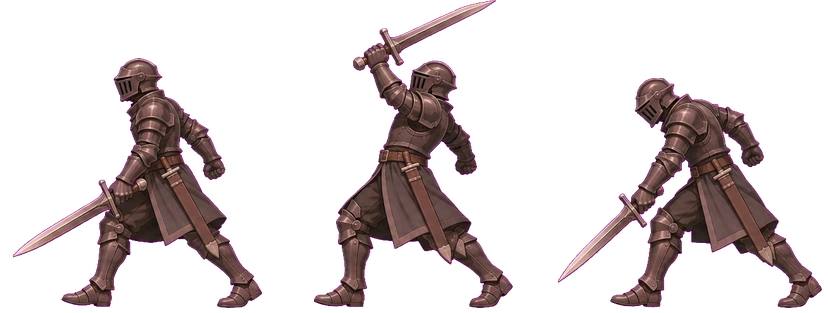
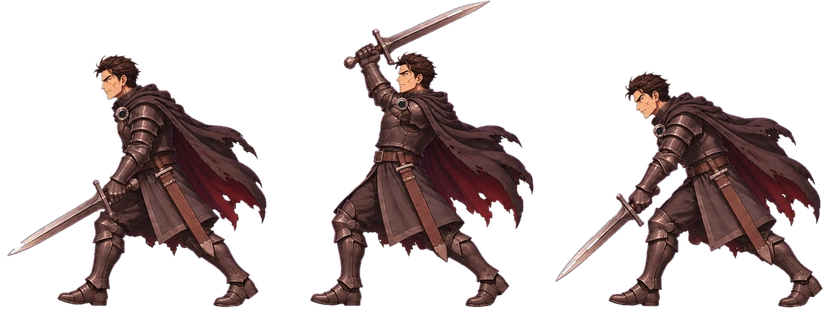
프롤로그: 간부 투구 제거·얼굴 공개(GPT 스프라이트 재제작), 아들 달리기 연출 순서·모션, 탈출 몽타주 가방, 장애물 간격 확대
Claude-Session: https://claude.ai/code/session_01SwHSdbEEaZJxcHmirHV4co

Changed region(s): [[0.3623, 0.0, 0.6643, 1.0], [0.6643, 0.23, 0.9964, 1.0], [0.0, 0.1725, 0.3321, 1.0]]

diff --git a/games/autelia/js/prologue/scenes.js b/games/autelia/js/prologue/scenes.js
@@ -26,8 +26,10 @@ window.AU = window.AU || {};
         const wsh = moving && (e.id === "off" ? (!e.pose || e.pose === "ready") && "pc_raider_officer_walk" : "pc_" + e.wk + "_walk"), WF = ["walk1", "pass1", "walk2", "pass2"];   // 4프레임 걷기 시트가 있으면 사용(간부는 검 동작 자세가 아닐 때만)
         if (wsh && A.has(wsh)) A.spr(ctx, wsh, WF[Math.floor(e.step / 18) % 4], e.x, e.y, e.face, e.s / 0.5);
         else if (e.pose && A.has("pc_raider_officer")) A.spr(ctx, "pc_raider_officer", e.pose, e.x, e.y, e.face, e.s / 0.5);   // 간부의 검 동작(준비·치켜듦·내리침)
-        else if (!A.spr(ctx, "pc_" + (A.has("pc_" + e.wk) ? e.wk : "raider_actions"), fr, e.x, e.y, e.face, e.s / 0.5)) A.raider(ctx, e.x, e.y, e.s, P.time, e.face); ctx.restore(); } });
+        else if (!A.spr(ctx, "pc_" + (A.has("pc_" + e.wk) ? e.wk : "raider_actions"), fr, e.x, e.y, e.face, e.s / 0.5)) A.raider(ctx, e.x, e.y, e.s, P.time, e.face); ctx.restore();
+        } });
   }
+  /* 간부 망토: 초상화(찢어진 짙은 망토, 붉은 안감)와 같은 모습을 몸 뒤에 그려 일반 병사와 구분. 걷거나 움직이면 펄럭임 */
   const SHEETS = "abcdefghijklm".split("").filter(() => true); // 주민 동작 시트(a~c 1차, d~m NPC 다양화). 없는 시트는 runner/crowd 에서 건너뜀
   const pickSheet = () => { const ok = SHEETS.filter((c) => A.has("pc_villager_" + c + "_actions")); return ok.length ? ok[(Math.random() * ok.length) | 0] : "a"; };
   // 도망치는 주민 실루엣(배경 연출용, 충돌 없음)
@@ -306,7 +308,7 @@ window.AU = window.AU || {};
       P.tint = { color: "#c9a79f", a: 0.5 }; P.vig = 0.4; P.setPlatforms(LAY.road.obst);
       flames(P, [{ x: 560, y: G, s: 1.1 }, { x: 760, y: G, s: 0.8 }, { x: 1240, y: G, s: 1.2 }, { x: 1900, y: G, s: 1.0 }, { x: 2130, y: G, s: 0.9 }, { x: 180, y: 300, s: 1.5 }, { x: 300, y: 285, s: 1.8 }, { x: 400, y: 310, s: 1.3 }]);
       fireEmitters(P, LAY.road.w, 150, 560, 1); for (const [i, r] of LAY.road.raiders.entries()) raider(P, "r" + (i + 1), r[0], r[1], 0.5 - i * 0.05, -1, r[2], r[3]); runnerSpawner(P, 2.2);
-      P.trigger({ id: "jumphint", test: (p) => p.x <= 1000, fn: () => P.hint("장애물은 점프(" + P.keys().jump + ")로 넘을 수 있습니다.", 4, true) });
+      P.trigger({ id: "jumphint", test: (p) => p.x <= 1700, fn: () => P.hint("장애물은 점프(" + P.keys().jump + ")로 넘을 수 있습니다.", 4, true) });
       P.trigger({ id: "s3end", goal: LAY.road.doorX, test: (p) => p.x <= LAY.road.doorX + 60, fn: () => houseDoor() });
     }
   }
@@ -459,11 +461,13 @@ window.AU = window.AU || {};
     await P.cutscene(async () => {
       P.obj(""); P.sfx("boom"); await P.fade(0, 1.2); await P.wait(0.8);
       await P.say([T.officer[0]]);
-      P.sfx("collapse"); P.shake(12, 0.9); await P.flash("#ffd9a0", 0.35); await P.tween(P.cut, { a: 0 }, 0.7); P.cut = null; await P.wait(0.5);
+      P.sfx("collapse"); P.shake(12, 0.9); await P.flash("#ffd9a0", 0.35); await P.tween(P.cut, { a: 0 }, 0.7); P.cut = null; await P.wait(0.4);
+      AU.World.player.dir = 1; P.pose("stagger"); await P.wait(0.55); P.pose(null);   // 아버지가 쓰러진 모습에 충격으로 굳음
       await P.say(T.officer.slice(1, 2));   // 주인공의 외침
       const p = AU.World.player, off = ent("off"), r1 = ent("rg1"), r2 = ent("rg2"), fa = ent("father");
-      await P.say(T.officer.slice(2));      // 간부의 선언
-      await P.walkTo(660, 2.0); P.pose("kneel"); await P.wait(0.5);   // 주인공은 아버지 곁으로 달려가 주저앉음
+      // 아버지가 쓰러지는 것을 본 주인공이 충격으로 굳었다가 → 외치고 → 곧바로 달려가 곁에 주저앉음 → 그제야 간부가 반응
+      await P.walkTo(660, 2.2); P.pose("kneel"); await P.wait(0.5);
+      await P.say(T.officer.slice(2));      // 간부의 선언(아버지 곁에 무릎 꿇은 주인공을 향해)
       walkTo(r1, fx + 165, 70); walkTo(r2, fx + 260, 70);            // 부하들이 무기를 든 채 한 걸음씩 다가옴
       await walkTo(off, fx + 115, 80); off.pose = "raise"; P.sfx("hammer"); await P.wait(0.5); await P.say(T.officer2);   // 간부가 검을 치켜듦
       // 아버지가 마지막 힘으로 일어나 주인공 앞을 막아섬
@@ -492,8 +496,9 @@ window.AU = window.AU || {};
       if (s.kind === "fog") { for (let i = 0; i < 3; i++) { const fx = ((t * 30 + i * 500) % 1800) - 400, g = ctx.createLinearGradient(fx, 0, fx + 700, 0); g.addColorStop(0, "rgba(235,240,245,0)"); g.addColorStop(0.5, "rgba(235,240,245,.55)"); g.addColorStop(1, "rgba(235,240,245,0)"); ctx.fillStyle = g; ctx.fillRect(fx, 200 + i * 90, 700, 220); } }
       else if (s.kind === "rain") { ctx.strokeStyle = "rgba(210,225,240,.5)"; ctx.lineWidth = 1.5; ctx.beginPath(); for (let i = 0; i < 140; i++) { const rx = (i * 97 + t * 420) % (W + 100) - 50, ry = (i * 53 + t * 900) % H; ctx.moveTo(rx, ry); ctx.lineTo(rx - 10, ry + 26); } ctx.stroke(); }
       else { const g = ctx.createRadialGradient(W * 0.5, 330, 10, W * 0.5, 330, 520); g.addColorStop(0, "rgba(255,230,160,.6)"); g.addColorStop(1, "rgba(255,200,120,0)"); ctx.globalCompositeOperation = "lighter"; ctx.fillStyle = g; ctx.fillRect(0, 0, W, H); ctx.globalCompositeOperation = "source-over"; }
-      const px = 260 + local * 120, bob = Math.abs(Math.sin(local * 7)) * 3; { const by = G + 6 - bob - 74 + Math.sin(local * 14) * 1.5, br = Math.sin(local * 7) * 0.03; if (!A.bagBack(ctx, px - 20, by, 58, 1, br)) A.bag(ctx, px - 22, by + 4, 0.62, 0.1 + br); }   // 등에 멘 목수 도구 가방
-      if (!A.spr(ctx, "pc_player_" + (AU.PRO_GENDER || "m") + "_locomotion", "walk" + (1 + Math.floor(local * 8) % 4), px, G + 6 - bob, 1)) AU.World.sprite(ctx, "player_male", px, G + 6 - bob, 150, 1, Math.floor(local * 8) % 4); ctx.restore(); }
+      const px = 260 + local * 120, bob = Math.abs(Math.sin(local * 7)) * 3; { const gk = "pc_player_" + (AU.PRO_GENDER || "m"), fr = "walk" + (1 + Math.floor(local * 8) % 4), y = G + 6 - bob;   // 가방을 멘 정식 걷기 그림(없으면 일반 걷기 + 등 뒤 가방)
+        if (!A.spr(ctx, gk + "_bag", fr, px, y, 1)) { const by = y - 74 + Math.sin(local * 14) * 1.5, br = Math.sin(local * 7) * 0.03; if (!A.spr(ctx, gk + "_locomotion", fr, px, y, 1)) AU.World.sprite(ctx, "player_male", px, y, 150, 1, Math.floor(local * 8) % 4); if (!A.bagBack(ctx, px - 20, by, 58, 1, br)) A.bag(ctx, px - 22, by + 4, 0.62, 0.1 + br); } }
+      ctx.restore(); }
   }
   SC.SCENE_05_ESCAPE = { name: "무너진 신전을 뒤로하고", async enter(P) {
     const g = P.gen, k = P.keys();

diff --git a/games/autelia/js/prologue/data.js b/games/autelia/js/prologue/data.js
@@ -45,8 +45,8 @@ window.AU = window.AU || {};
   // 장면별 배치 좌표(그림이 바뀌면 여기만 고칩니다)
   const L = AU.PRO_LAY = {
     temple: { w: BW("temple", 1839), start: 250, pile: 470, father: 700, joint: 905, tx: 1215, tBase: 548, tW: 720, limit: 1720, exit: 1790, hammerAt: 1010 },
-    road:   { w: BW("road", 2149), start: 90, doorX: 268, end: 2050, m: { start: 300, farmer: 820, child: 560, baker: 1080, elder: 1320, priest: 1550, stele: 1700, limit: 1780 }, b: { elder: 430, musician: 640, baker: 1000, scribe: 1520, poles: [800, 1300, 1750], limit: 2050 }, obst: [{ x: 800, y: 527, w: 190, h: 63 }, { x: 1270, y: 527, w: 190, h: 63 }], raiders: [[1150, 505, 1000, 1350], [1500, 500, 1350, 1750]] },
-    plaza:  { w: BW("plaza", 2160), start: 120, elder: 380, child: 640, vendor: 1700, limit: 1860, center: 1080, exit: 70, tx: 1080, tBase: 520, tW: 520, obst: [{ x: 1270, y: 527, w: 190, h: 63 }, { x: 1640, y: 527, w: 170, h: 63 }] },   // 와이드 광장(2160px): 신전·이벤트 지점이 맵 정중앙(1080)
+    road:   { w: BW("road", 2149), start: 90, doorX: 268, end: 2050, m: { start: 300, farmer: 820, child: 560, baker: 1080, elder: 1320, priest: 1550, stele: 1700, limit: 1780 }, b: { elder: 430, musician: 640, baker: 1000, scribe: 1520, poles: [800, 1300, 1750], limit: 2050 }, obst: [{ x: 700, y: 527, w: 190, h: 63 }, { x: 1270, y: 527, w: 190, h: 63 }], raiders: [[1150, 505, 1000, 1350], [1500, 500, 1350, 1750]] },
+    plaza:  { w: BW("plaza", 2160), start: 120, elder: 380, child: 640, vendor: 1700, limit: 1860, center: 1080, exit: 70, tx: 1080, tBase: 520, tW: 520, obst: [{ x: 1150, y: 527, w: 190, h: 63 }, { x: 1640, y: 527, w: 170, h: 63 }] },   // 와이드 광장(2160px): 신전·이벤트 지점이 맵 정중앙(1080)
     house:  { w: BW("house", 1279), start: 170, father: 860, bag: 420, find: 470, exit: 100 },
     escape: { w: BW("escape", 3083), start: 90, recall: 1500, look: 2780, end: 3020 },
     hill:   { w: BW("port", 1849), start: 300 }
@@ -56,7 +56,7 @@ window.AU = window.AU || {};
   AU.MAPS.pro_plaza  = Object.assign({}, base, { name: "아르케아 축제 광장", bg: "pb_plaza", bgAtk: "pb_plaza_atk", width: L.plaza.w, platforms: ground(L.plaza.w), start: L.plaza.start });  // BG-03 / BG-V02
   AU.MAPS.pro_house  = Object.assign({}, base, { name: "주인공의 집", bg: "pb_house_atk", width: L.house.w, platforms: ground(L.house.w), start: L.house.start });                // BG-04(습격 상태)
   AU.MAPS.pro_escape = Object.assign({}, base, { name: "아르케아 외곽 탈출로", bg: "pb_escape", width: L.escape.w, start: L.escape.start,                                          // BG-05
-    platforms: [{ x: 0, y: G, w: L.escape.w }, { x: 630, y: 524, w: 170, h: 66 }, { x: 960, y: 538, w: 200, h: 52 }, { x: 1700, y: 538, w: 200, h: 52 }, { x: 2300, y: 524, w: 170, h: 66 }] });   // 장애물(코드로 그린 쓰러진 나무·바위)은 흙길 위에 놓음
+    platforms: [{ x: 0, y: G, w: L.escape.w }, { x: 630, y: 524, w: 170, h: 66 }, { x: 1130, y: 538, w: 200, h: 52 }, { x: 1700, y: 538, w: 200, h: 52 }, { x: 2300, y: 524, w: 170, h: 66 }] });   // 장애물(코드로 그린 쓰러진 나무·바위)은 흙길 위에 놓음
   AU.MAPS.pro_hill   = Object.assign({}, base, { name: "포르투 노바 외곽 언덕", bg: "pb_port", width: L.hill.w, platforms: ground(L.hill.w), start: L.hill.start });                    // BG-06
   // 맵 변형(BG-V01~V03)은 같은 배경·같은 지형 위에 코드로 연기·불길·잔해를 얹어 표현합니다.
   for (const id of Object.keys(AU.MAPS)) if (AU.MAPS[id].prologue) AU.MAPS[id].basePlatforms = AU.MAPS[id].platforms.slice();

diff --git a/games/autelia/js/prologue/engine.js b/games/autelia/js/prologue/engine.js
@@ -349,6 +349,7 @@ window.AU = window.AU || {};
       if (!this.on) return; this.time += dt; const w = AU.World, p = w.player;
       for (let i = this.timers.length - 1; i >= 0; i--) { const t = this.timers[i]; t.t -= dt; if (t.t <= 0) { this.timers.splice(i, 1); t.res(); } }
       for (const tw of this.tweens.slice()) { tw.t += dt; const k = Math.min(1, tw.t / tw.dur), e = tw.ease(k); for (const key of Object.keys(tw.to)) tw.obj[key] = tw.from[key] + (tw.to[key] - tw.from[key]) * e; if (k >= 1) { const i = this.tweens.indexOf(tw); if (i >= 0) this.tweens.splice(i, 1); tw.res(); } }
+      if (this.isRun() && p.onGround) { this.runT = (this.runT || 0) + dt; if (this.runT > 0.12) { this.runT = 0; this.burst("dust", p.x - p.dir * 16, p.y - 3, 1); } }   // 달리는 발밑 먼지
       if (this.walk) { this.walk.t += dt; const dx = this.walk.x - p.x; if (Math.abs(dx) <= 6 || this.walk.t > 12) { if (this.walk.t > 12) p.x = this.walk.x; p.vx = 0; w.virt = null; const r = this.walk.res; this.walk = null; r(); } else if (w.virt) w.virt.dir = sign(dx); }
       if (this.shk.t > 0) this.shk.t -= dt;
       if (p.pose) p.pose.t += dt;
@@ -412,12 +413,14 @@ window.AU = window.AU || {};
       if (nm === "hammer") fr = (this.v.swing || 0) > 0.5 ? "hammer2" : "hammer1";
       else if (nm === "kneel") fr = "kneel"; else if (nm === "shrug") fr = "shrug"; else if (nm === "lookback") fr = "lookback";
       else if (!p.onGround) { sheet = "locomotion"; fr = p.vy < 0 ? "jump_up" : "jump_down"; }
-      else if (moving) { sheet = "locomotion"; fr = "walk" + (1 + (Math.floor(AU.World.time * 9) % 4)); }
+      else if (moving) { sheet = "locomotion"; fr = "walk" + (1 + (Math.floor(AU.World.time * (this.isRun() ? 15 : 9)) % 4)); }   // 달릴 때는 발 구르는 속도를 빠르게(미끄러지는 느낌 방지)
       if (hasBag && !nm && !(this.v.carry || this.v.give) && (sheet === "locomotion" || fr === "idle")) { this.bagDrawn = true; return A.spr(ctx, bk, sheet === "locomotion" ? fr : "stand", p.x, p.y, p.dir); }
       return A.spr(ctx, this.heroKey(sheet), fr, p.x, p.y, p.dir);
     },
+    isRun() { return !!(this.walk && AU.World.virt && AU.World.virt.k >= 1.5); },   // 컷신에서 주인공이 달리는 중인지
     poseOf(p) {
-      const q = p.pose; if (!q) return null; const t = q.t;
+      const q = p.pose; if (!q) { if (this.isRun() && p.onGround) { const t = AU.World.time; return { sx: 1, sy: 1, rot: 0.15 * p.dir, dx: 0, dy: -Math.abs(Math.sin(t * Math.PI * 7.5)) * 5, art: true }; } return null; } const t = q.t;   // 달리기: 몸을 앞으로 기울이고 걸음마다 위아래로 튐
+
       if (this.heroArt() && q.name === "lookback") { const k = Math.min(1, t / 1.6), tr = Math.sin(t * 7) * 0.9 * k; return { sx: 1, sy: 1 - 0.035 * k, rot: 0.06 * p.dir * k, dx: tr, art: true }; }   // 고개와 어깨를 떨군 채 가늘게 떨며 마을을 바라봄(슬픔)
       if (this.heroArt()) return q.name === "stagger" ? { sx: 1, sy: 1, rot: 0.1 * p.dir, dx: 0 } : { sx: 1, sy: 1, rot: 0, dx: 0, hammer: q.name === "hammer", art: true };
       if (q.name === "kneel") return { sx: 1.06, sy: 0.78, rot: 0, dx: p.dir * 4 };

diff --git a/games/autelia/js/world.js b/games/autelia/js/world.js
@@ -547,7 +547,7 @@ window.AU = window.AU || {};
       const lean = p.atkT > 0 ? p.dir * 6 : 0, PR = AU.Prologue, pro = !!(PR && PR.on), pose = pro ? PR.poseOf(p) : null;
       let skm = null; if (p.sk && !pro && !AU.Img.has("pc_player_" + AU.Profile.gender() + "_combat")) { const q = p.sk.t / p.sk.dur, e = Math.sin(Math.min(1, q) * Math.PI); skm = p.sk.id === "strike" ? { dx: p.dir * 16 * e, rot: p.dir * (q < 0.35 ? -0.1 * (q / 0.35) : 0.2 * e), sx: 1 + 0.06 * e, sy: 1 - 0.04 * e } : p.sk.id === "spin" ? { dx: 0, rot: 0, sx: Math.cos(q * Math.PI * 4), sy: 1 + 0.03 * e } : { dx: 0, rot: 0, sx: 1 + 0.03 * e, sy: 1 - 0.07 * e }; if (Math.abs(skm.sx) < 0.12) skm.sx = skm.sx < 0 ? -0.12 : 0.12; }
       if (skm) { ctx.save(); ctx.translate(p.x + skm.dx, p.y); ctx.rotate(skm.rot); ctx.scale(skm.sx, skm.sy); ctx.translate(-p.x, -p.y); }
-      if (pose) { ctx.save(); ctx.translate(p.x + (pose.dx || 0), p.y); ctx.rotate(pose.rot || 0); ctx.scale(pose.sx || 1, pose.sy || 1); ctx.translate(-p.x, -p.y); }
+      if (pose) { ctx.save(); ctx.translate(p.x + (pose.dx || 0), p.y + (pose.dy || 0)); ctx.rotate(pose.rot || 0); ctx.scale(pose.sx || 1, pose.sy || 1); ctx.translate(-p.x, -p.y); }
       if (pro && PR.drawHero(ctx, p, pose, moving)) { /* 프롤로그 정식 그림 */ }
       else if (!pro && this.drawHeroArt(ctx, p, lean, moving)) { /* 프롤로그와 같은 주인공 그림 */ }
       else if (!this.sprite(ctx, key, p.x + lean, p.y, C.player.spriteHeight, p.dir, frame)) { ctx.fillStyle = "#FFB3C7"; this.rr(ctx, p.x - 22, p.y - 118, 44, 118, 16); ctx.fill(); }
